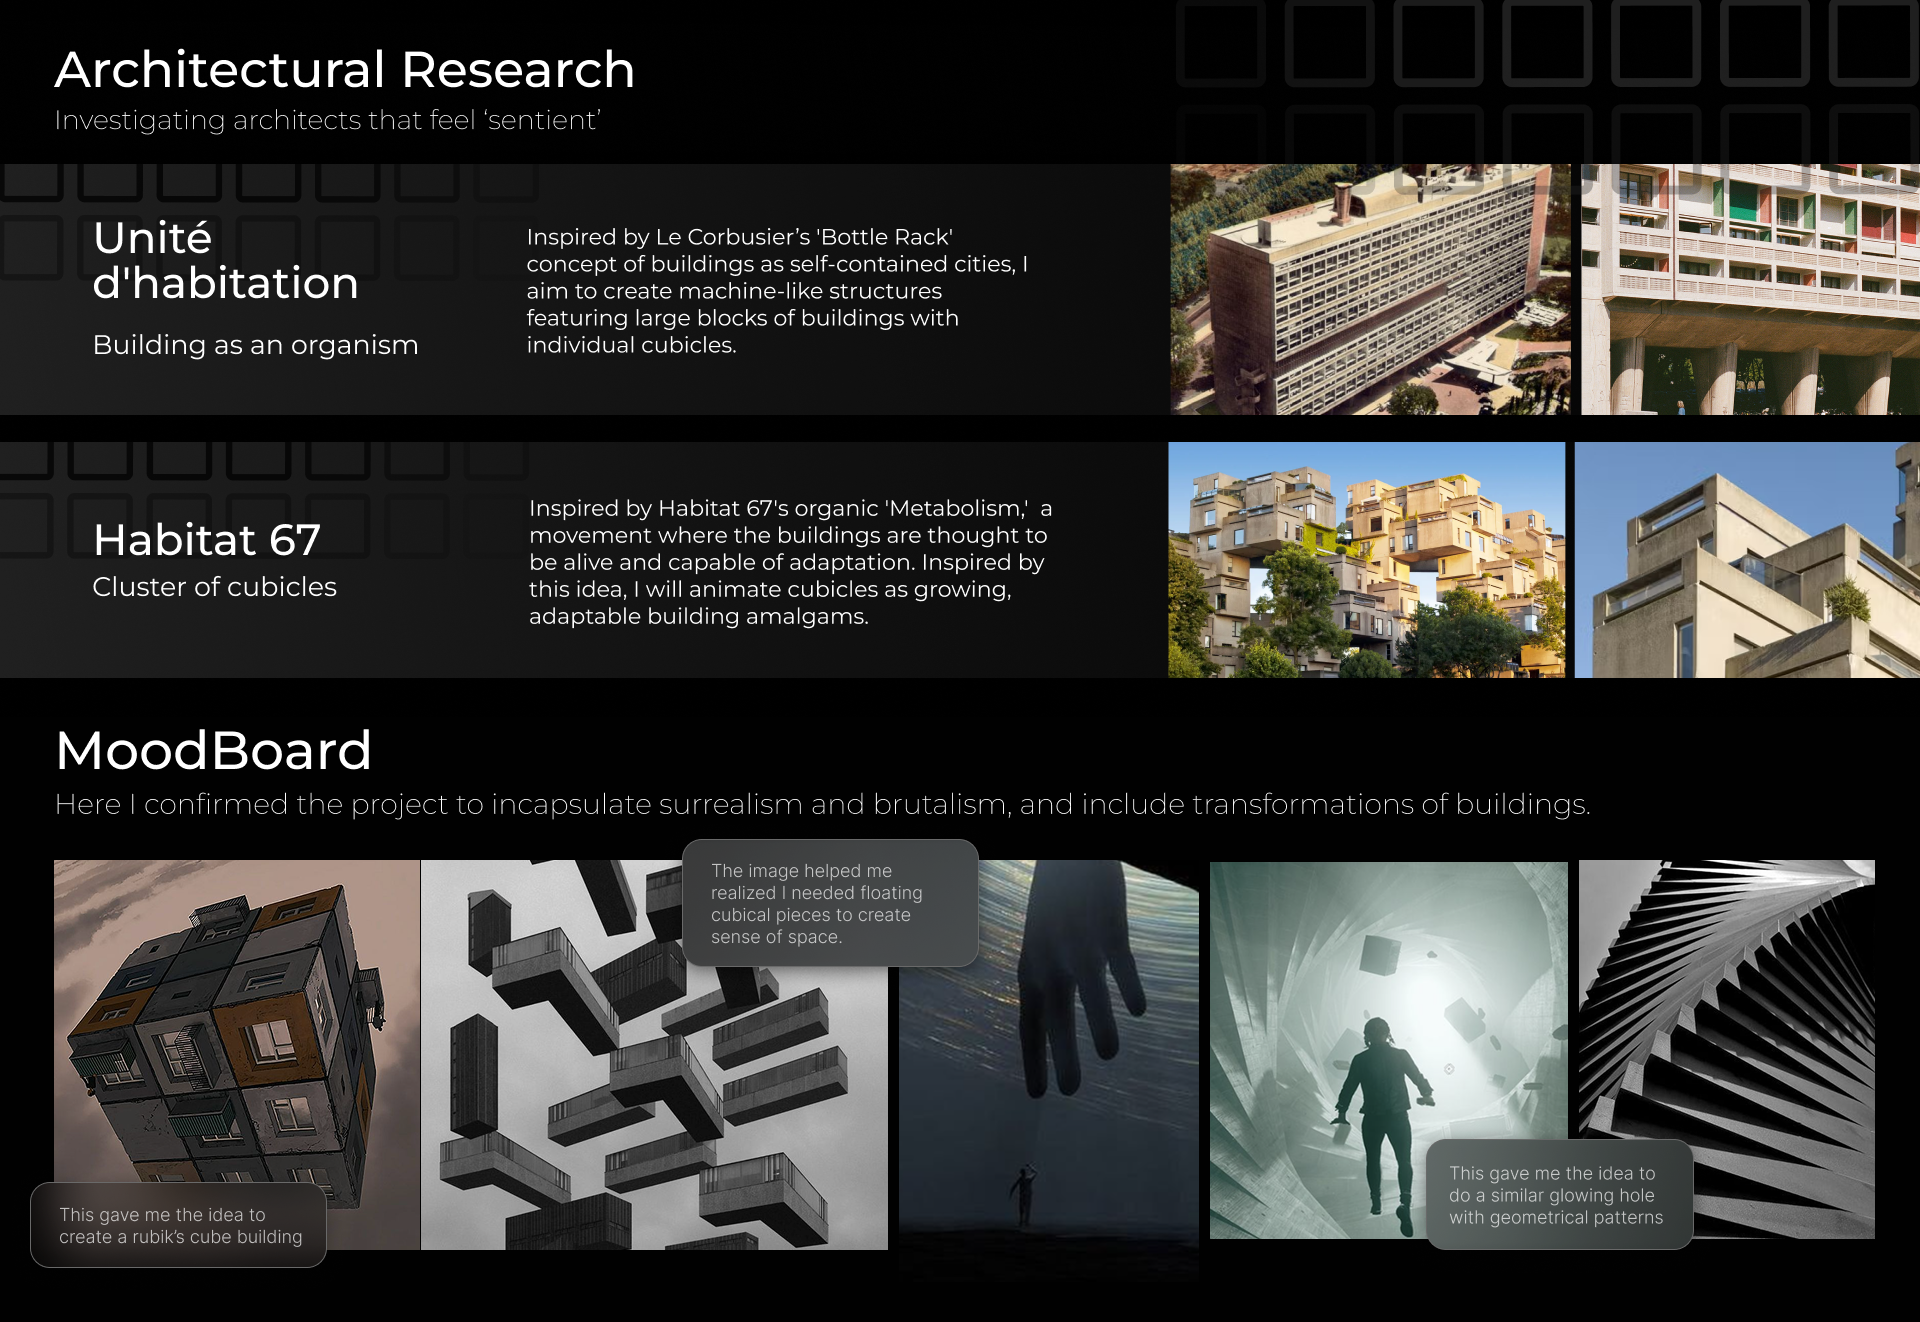
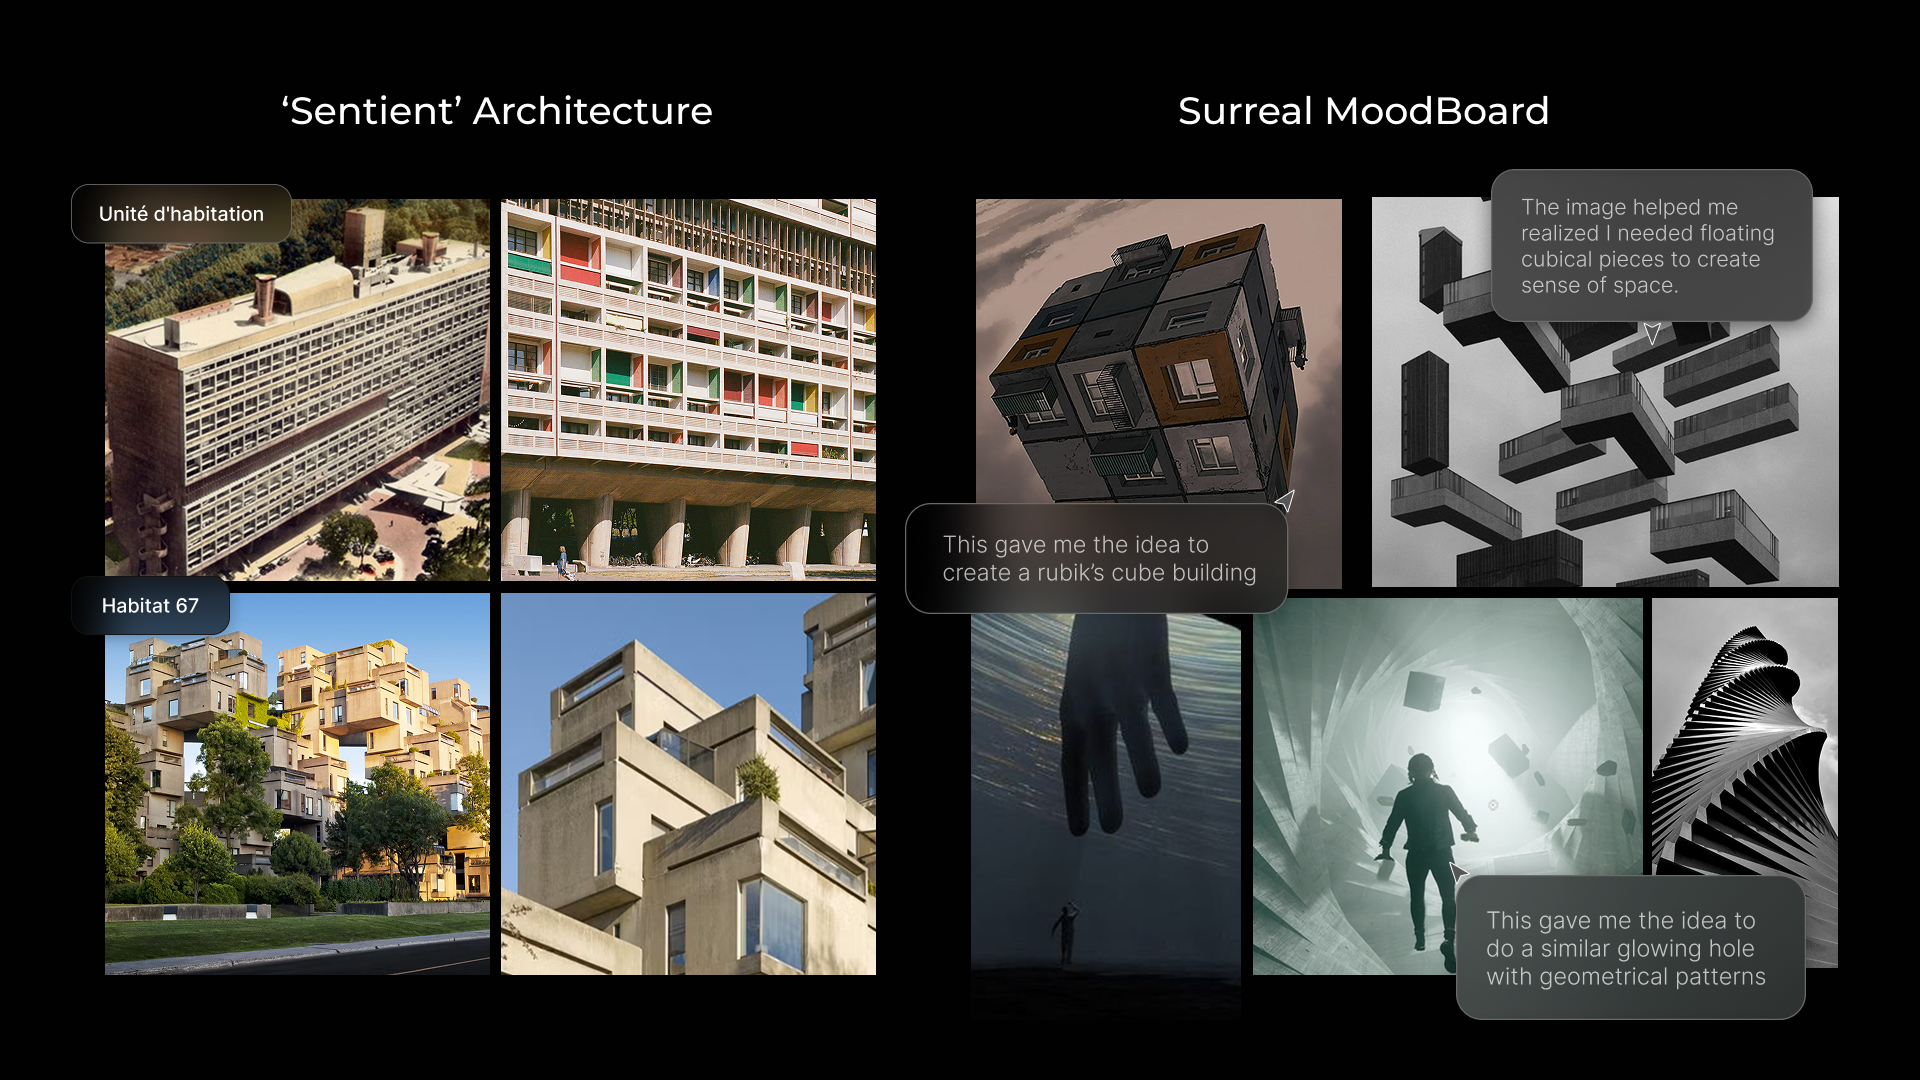
feat: add Cloner breakdown to slot 5, update planning moodboard

diff --git a/src/data/config.ts b/src/data/config.ts
@@ -73,9 +73,9 @@ export const siteConfig = {
           description: "The project relied heavily on Unreal Engine's Motion Design tools. Cloners and effectors were utilized to animate rippling planes, rising cities, and procedural foliage. The complex Rubik's cube rotations were achieved by seamlessly swapping mesh visibilities to bypass rigid rigging."
         },
         { 
-          url: "",
-          subtitle: "ENVIRONMENT & MATERIALS",
-          description: "The surreal aesthetic was enhanced using particle simulators, custom LED screen shaders, and rippling water materials. Post-production in After Effects brought the final composition together with motion tracking, Lumetri color correction, and dynamic editing."
+          url: "/Cloner.png",
+          subtitle: "MOTION DESIGN PLUGIN MULTI-USE",
+          description: "The Cloner plugin became the backbone of the entire visual language in CUBICLE.OBJ. It drove the rippling planes across the cubicle landscape, the rising wave of buildings spawning from the city seed, and the formation of the central void. Animators created oscillating sine-based movements for subtle floating and breathing effects with minimal keyframing. Procedural static mesh instancing allowed cubes to replicate outward in staggered wave formations\u2014turning a single asset into an endlessly propagating architectural pattern, embodying the project's theme of digital abundance and god-like creative authority."
         },
         { 
           url: "",